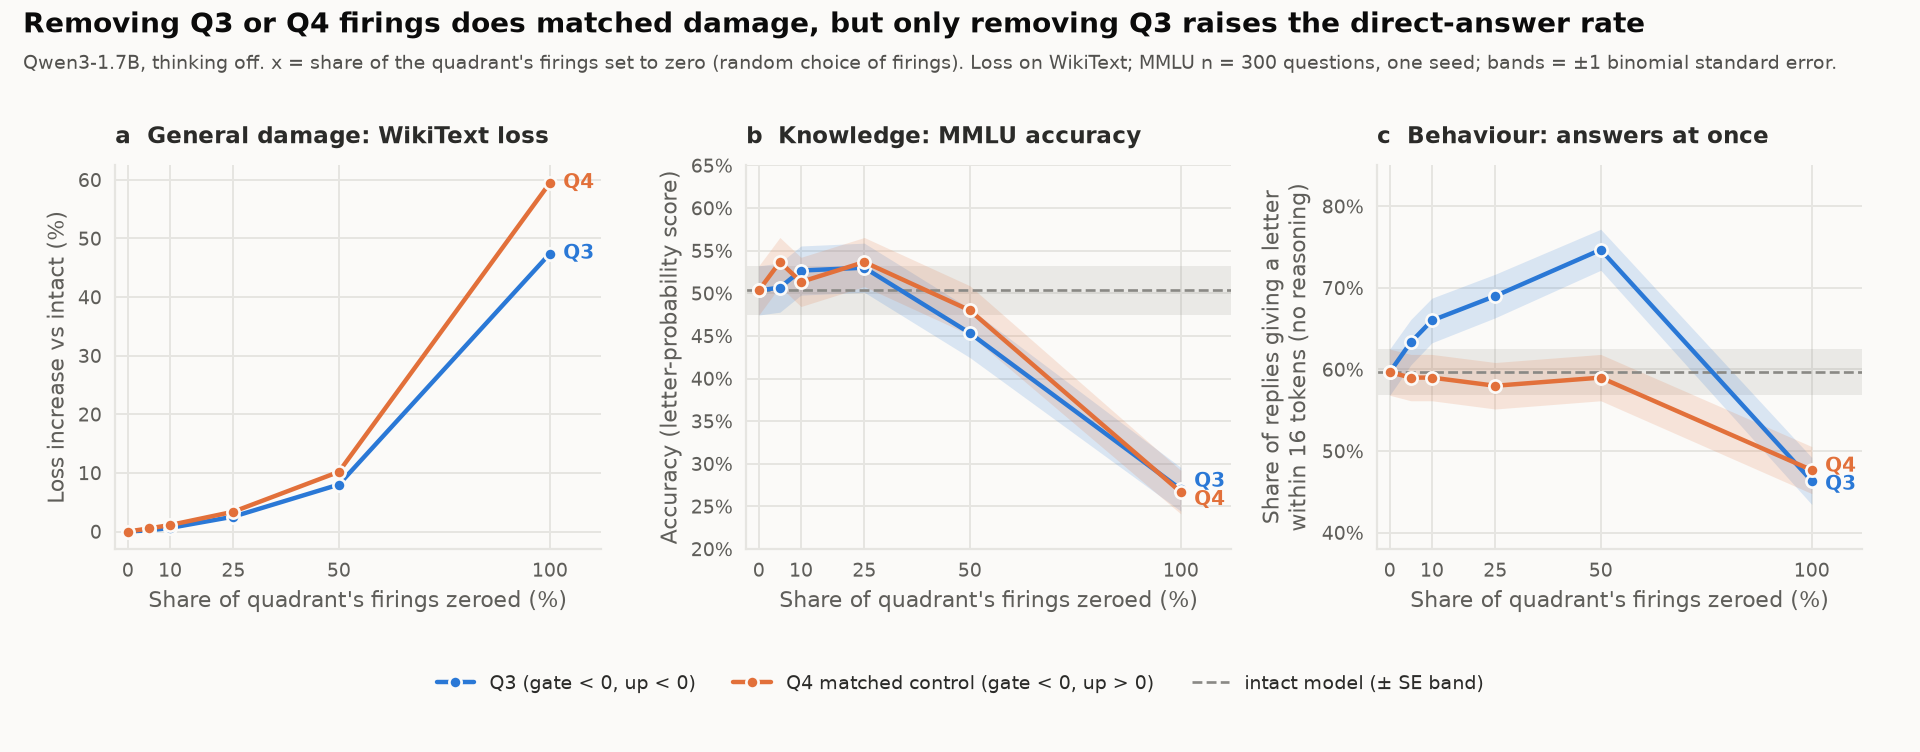
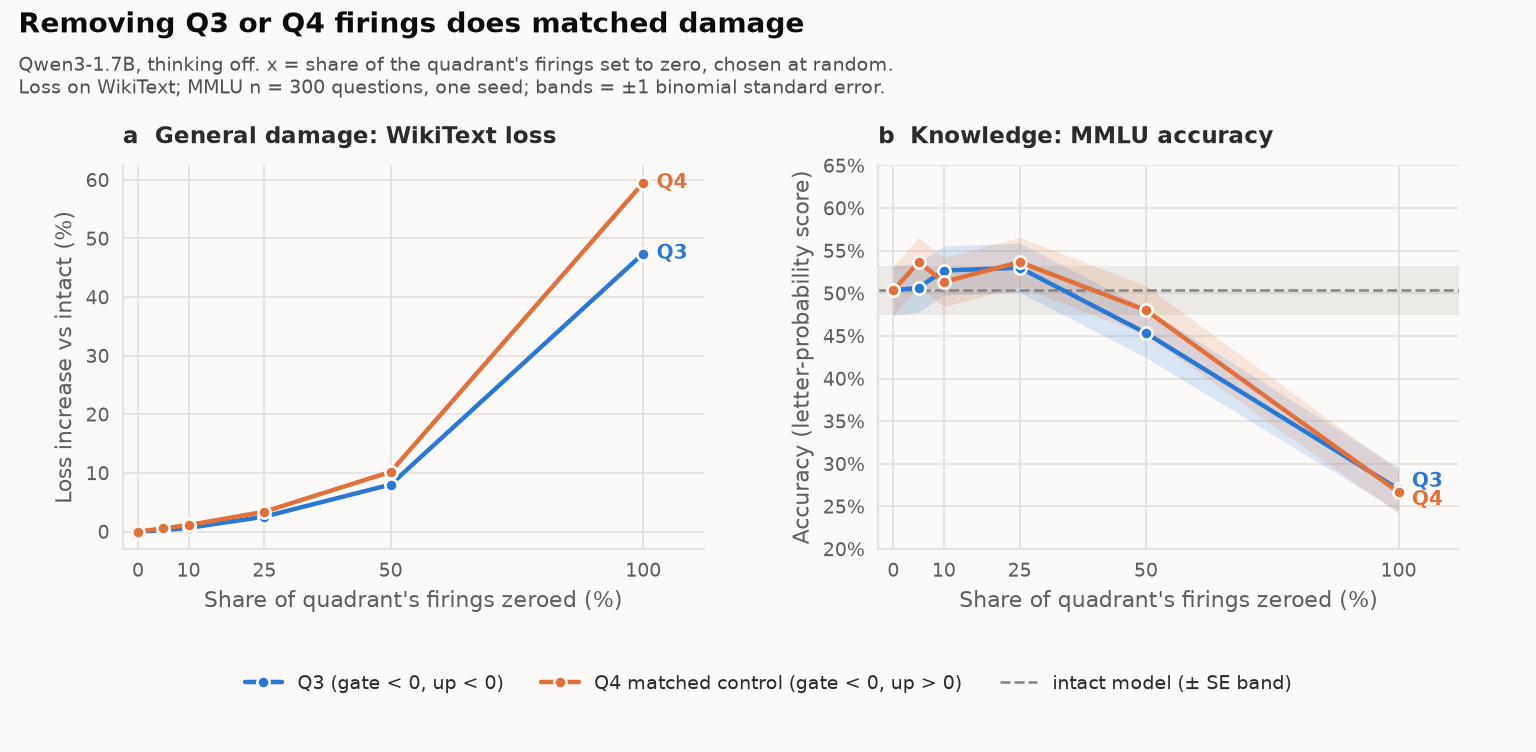
fig1: remove the answers-at-once panel

diff --git a/src/figures/make_figures.py b/src/figures/make_figures.py
@@ -6,7 +6,7 @@
 Writes PNGs (dpi 160) into <results>/figures/. Any figure whose input data does
 not exist yet is skipped with a printed note.
 
-  fig1_damage_dose.png    damage and direct-answer rate vs share of firings zeroed (damage.json)
+  fig1_damage_dose.png    WikiText loss and MMLU accuracy vs share of firings zeroed (damage.json)
   fig2_putback_ladder.png WikiText loss for each put-back edit, Q3 vs Q4 (damage.json)
   fig3_generation.png     GSM8K thinking length, accuracy, cap hits (thinking-on runs)
   fig4_probe.png          teacher-forced stop / wait urge vs damage (probe_stop*.jsonl)
@@ -166,17 +166,15 @@ def fig1_damage_dose(folder: Path, out_dir: Path):
     if len(series("q3", "loss_increase_pct", 0.0)[0]) < 2:
         return skip(name, "no q3_zero@p entries in damage.json")
 
-    fig, axes = plt.subplots(1, 3, figsize=(12, 4.7), sharex=True)
-    fig.subplots_adjust(left=0.06, right=0.97, top=0.78, bottom=0.27, wspace=0.3)
-    add_header(fig, "Removing Q3 or Q4 firings does matched damage, but only removing Q3 raises the direct-answer rate",
-               "Qwen3-1.7B, thinking off. x = share of the quadrant's firings set to zero (random choice of firings). "
+    fig, axes = plt.subplots(1, 2, figsize=(9.6, 4.7), sharex=True)
+    fig.subplots_adjust(left=0.08, right=0.95, top=0.78, bottom=0.27, wspace=0.3)
+    add_header(fig, "Removing Q3 or Q4 firings does matched damage",
+               "Qwen3-1.7B, thinking off. x = share of the quadrant's firings set to zero, chosen at random.\n"
                "Loss on WikiText; MMLU n = %d questions, one seed; bands = ±1 binomial standard error." % n)
 
     panels = [
         ("loss_increase_pct", 0.0, "a  General damage: WikiText loss", "Loss increase vs intact (%)", False),
         ("mmlu_accuracy", base.get("mmlu_accuracy"), "b  Knowledge: MMLU accuracy", "Accuracy (letter-probability score)", True),
-        ("mmlu_direct_rate", base.get("mmlu_direct_rate"), "c  Behaviour: answers at once",
-         "Share of replies giving a letter\nwithin 16 tokens (no reasoning)", True),
     ]
     for ax, (field, bval, title, ylabel, is_rate) in zip(axes, panels):
         ax.set_title(title)
@@ -212,8 +210,6 @@ def fig1_damage_dose(folder: Path, out_dir: Path):
         ax.set_xlim(-3, 112)
         if is_rate:
             ax.yaxis.set_major_formatter(matplotlib.ticker.PercentFormatter(1.0, decimals=0))
-    if "mmlu_direct_rate" in base:
-        axes[2].set_ylim(0.38, 0.85)
     axes[1].set_ylim(0.2, 0.65)
     handles, labels = axes[0].get_legend_handles_labels()
     from matplotlib.lines import Line2D
